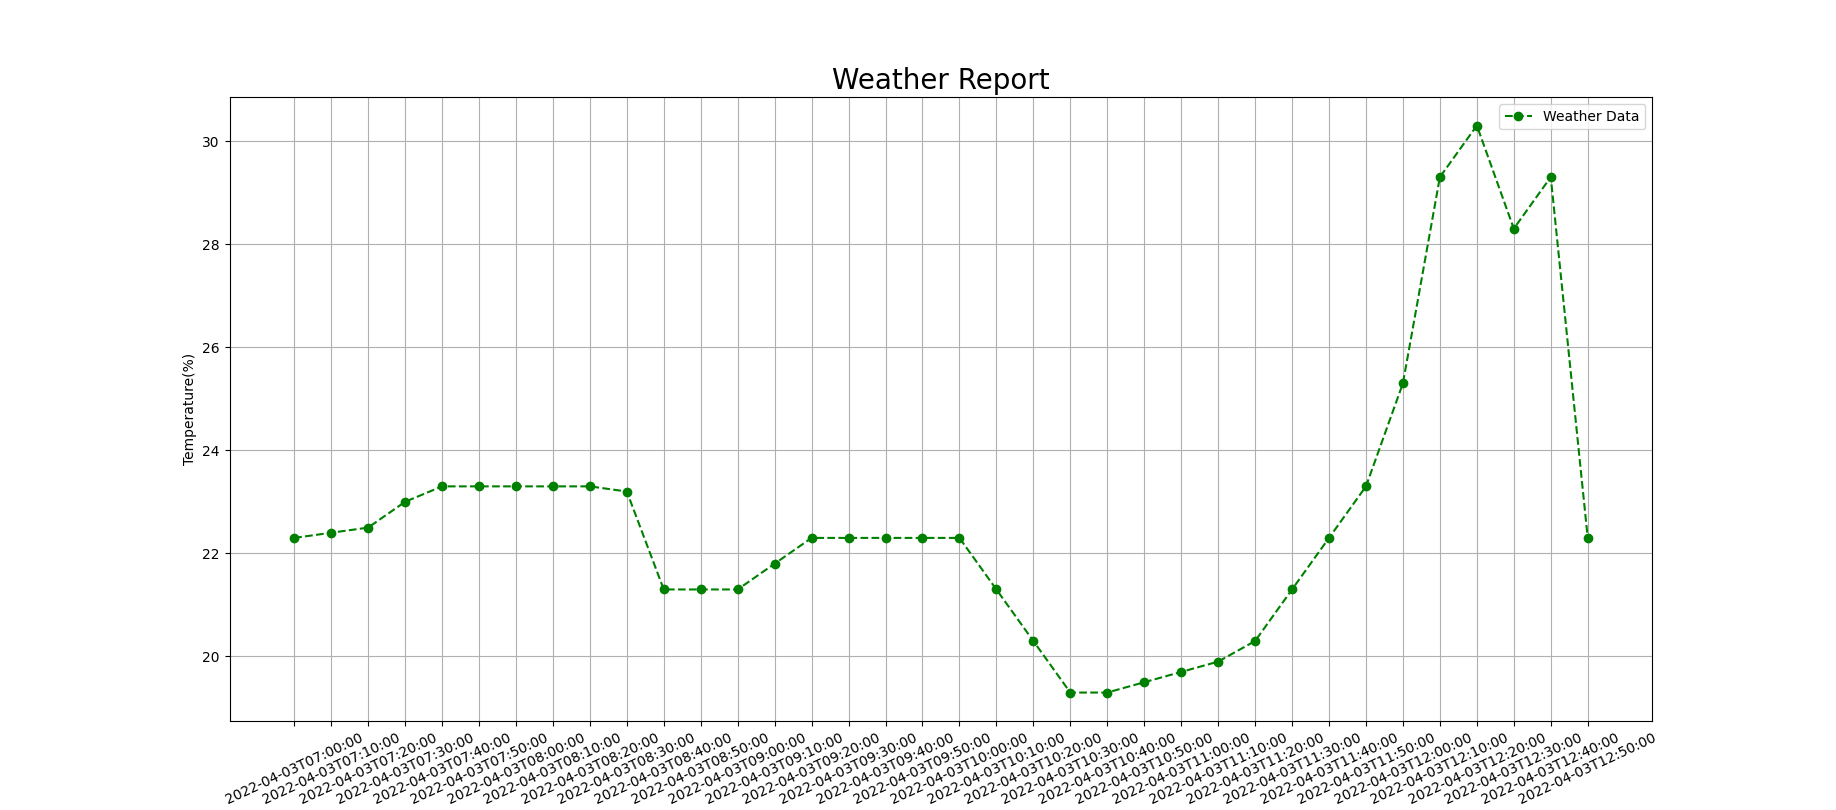
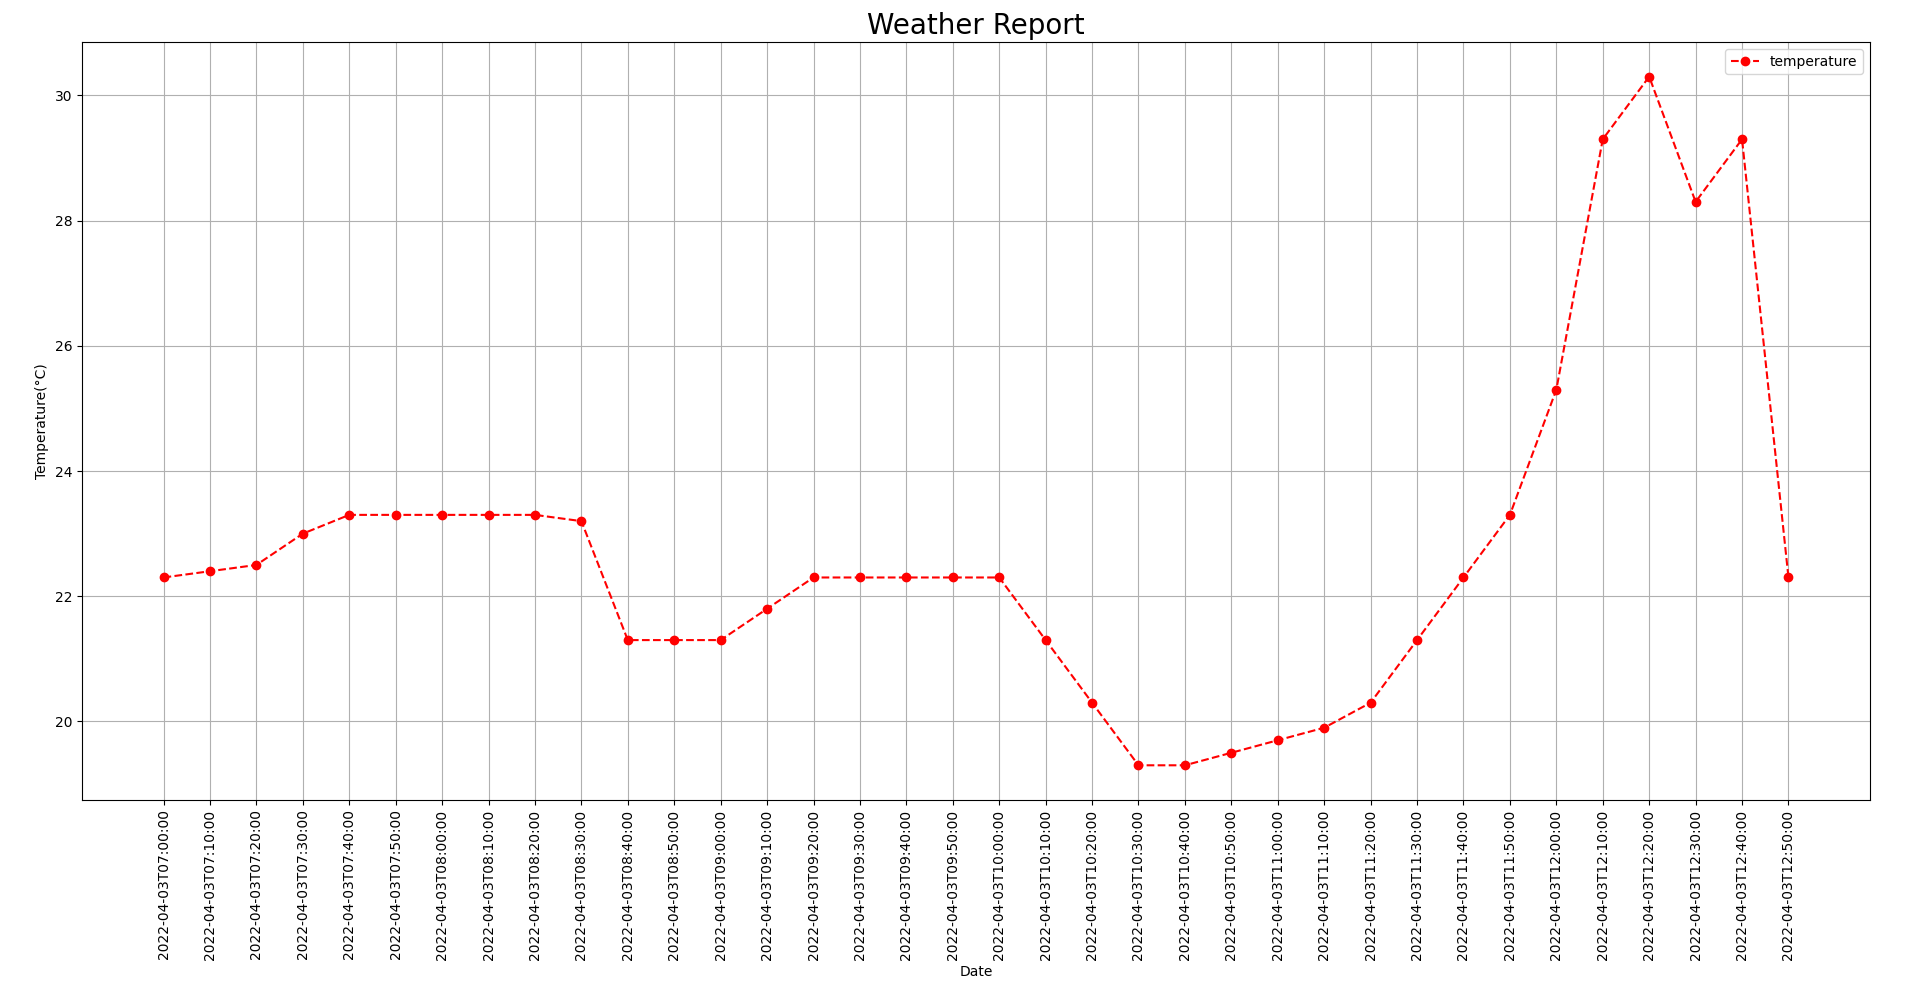
Csv tests updated. Chatbot demo added

diff --git a/demos/pythotev_demo_nltk_chatbot.py b/demos/pythotev_demo_nltk_chatbot.py
@@ -1,0 +1,58 @@
+import nltk
+from nltk.chat.util import Chat, reflections
+
+set_pairs = [
+    [
+        r"my name is (.*)",
+        ["Hello %1, How are you doing today ?",]
+    ],
+    [
+        r"hi|hey|hello",
+        ["Hello", "Hey there",]
+    ], 
+    [
+        r"what is your name?",
+        ["You can call me a chatbot ?",]
+    ],
+    [
+        r"how are you ?",
+        ["I am fine, thank you! How can i help you?",]
+    ],
+    [
+        r"I am fine, thank you",
+        ["great to hear that, how can i help you?",]
+    ],
+    [
+        r"how can i help you? ",
+        ["i am looking for online guides and courses to learn data science, can you suggest?", "i am looking for data science training platforms",]
+    ],
+    [
+        r"i'm (.*) doing good",
+        ["That's great to hear","How can i help you?:)",]
+    ],
+    [
+        r"i am looking for online guides and courses to learn data science, can you suggest?",
+        ["Pluralsight is a great option to learn data science. You can check their website",]
+    ],
+    [
+        r"thanks for the suggestion. do they have great authors and instructors?",
+        ["Yes, they have the world class best authors, that is their strength;)",]
+    ],
+    [
+        r"(.*) thank you so much, that was helpful",
+        ["Iam happy to help", "No problem, you're welcome",]
+    ],
+    [
+        r"quit",
+    ["Bye, take care. See you soon :) ","It was nice talking to you. See you soon :)"]
+    ]
+]
+
+def chatbot():
+        print("Hi, I'm the chatbot you built")
+
+chat = Chat(set_pairs, reflections)
+
+chat.converse()
+if __name__ == "__main__":
+    chatbot()

diff --git a/projects/PythonUsingVisualStudio/pythotev_project_read_data_from_csv_file/pythotev_csv_temperature_humidity.py b/projects/PythonUsingVisualStudio/pythotev_project_read_data_from_csv_file/pythotev_csv_temperature_humidity.py
@@ -9,18 +9,18 @@ import csv
 x = []
 y = []
   
-with open('C:/Projects/PT_Library_Python_UltimatePythotev/projects/PythonUsingVisualStudio/pythotev_project_read_data_from_csv_file/res/temp.csv','r') as csvfile:
+with open('C:/Projects/PT_Library_Python_UltimatePythotev/projects/PythonUsingVisualStudio/pythotev_project_read_data_from_csv_file/res/temp_1.csv','r') as csvfile:
     lines = csv.reader(csvfile, delimiter=',')
     for row in lines:
         x.append(row[0])
         y.append(float(row[1])) # temperature
-        #y.append(int(row[2])) # humidity
-  
-plt.plot(x, y, color = 'g', linestyle = 'dashed', marker = 'o',label = "Weather Data")
-  
-plt.xticks(rotation = 25)
+        #y.append(float(row[2])) # humidity
+
+plt.plot(x, y, color = 'r', linestyle = 'dashed', marker = 'o',label = "temperature")  
+#plt.plot(x, y, color = 'b', linestyle = 'dashed', marker = 'o',label = "humidity")  
+plt.xticks(rotation = 90)
 plt.xlabel('Date')
-plt.ylabel('Temperature(%)')
+plt.ylabel('Temperature(°C)')
 #plt.ylabel('Humidity(%)')
 plt.title('Weather Report', fontsize = 20)
 plt.grid()
